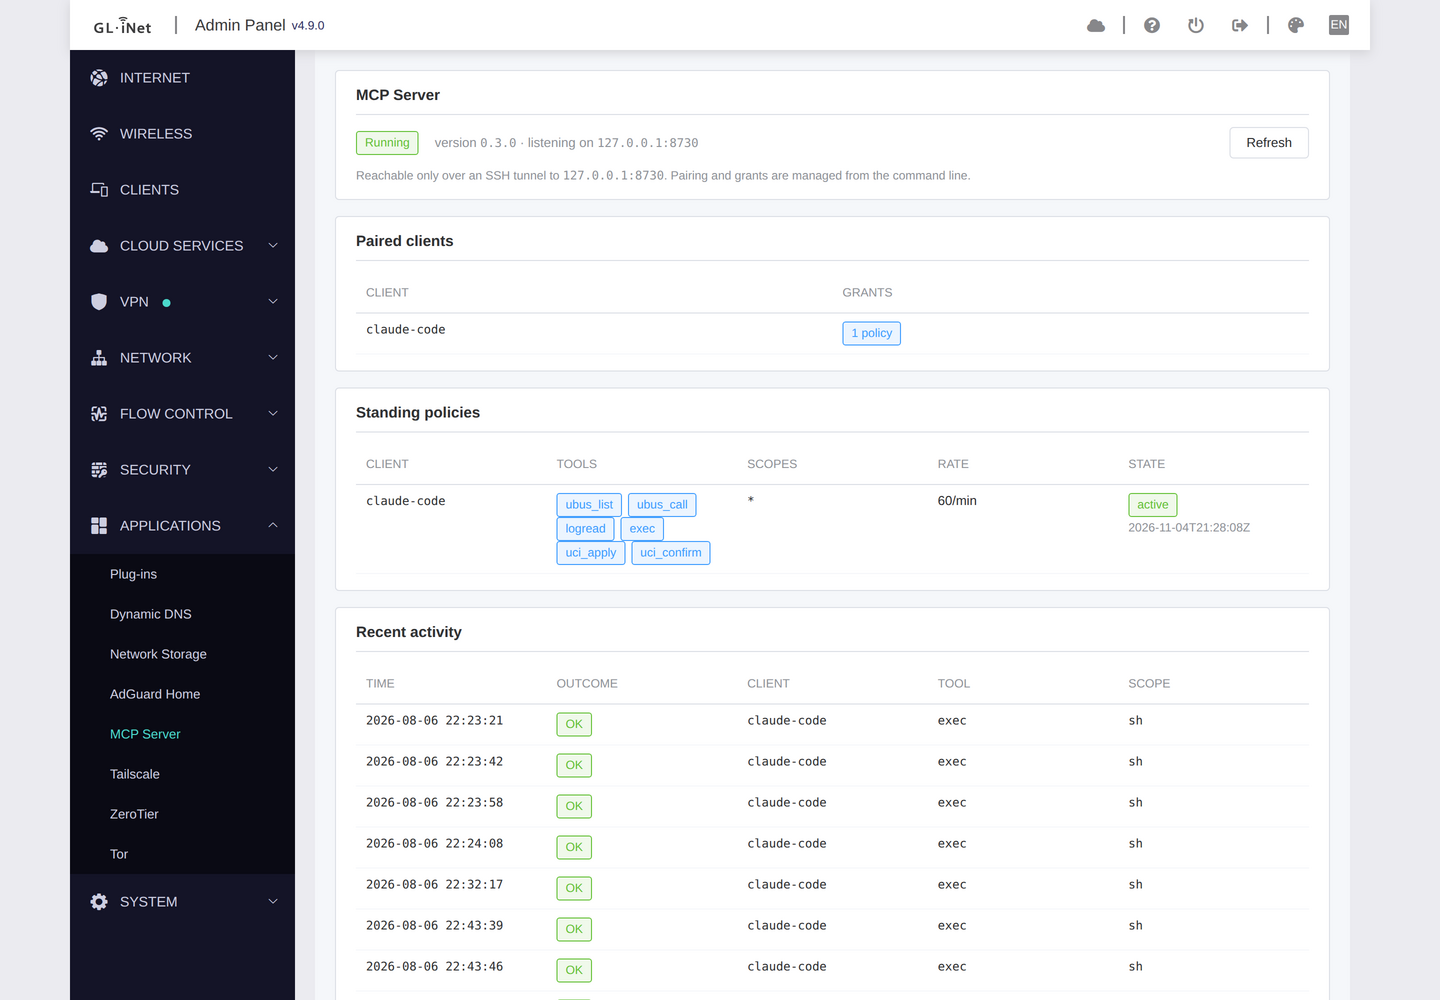
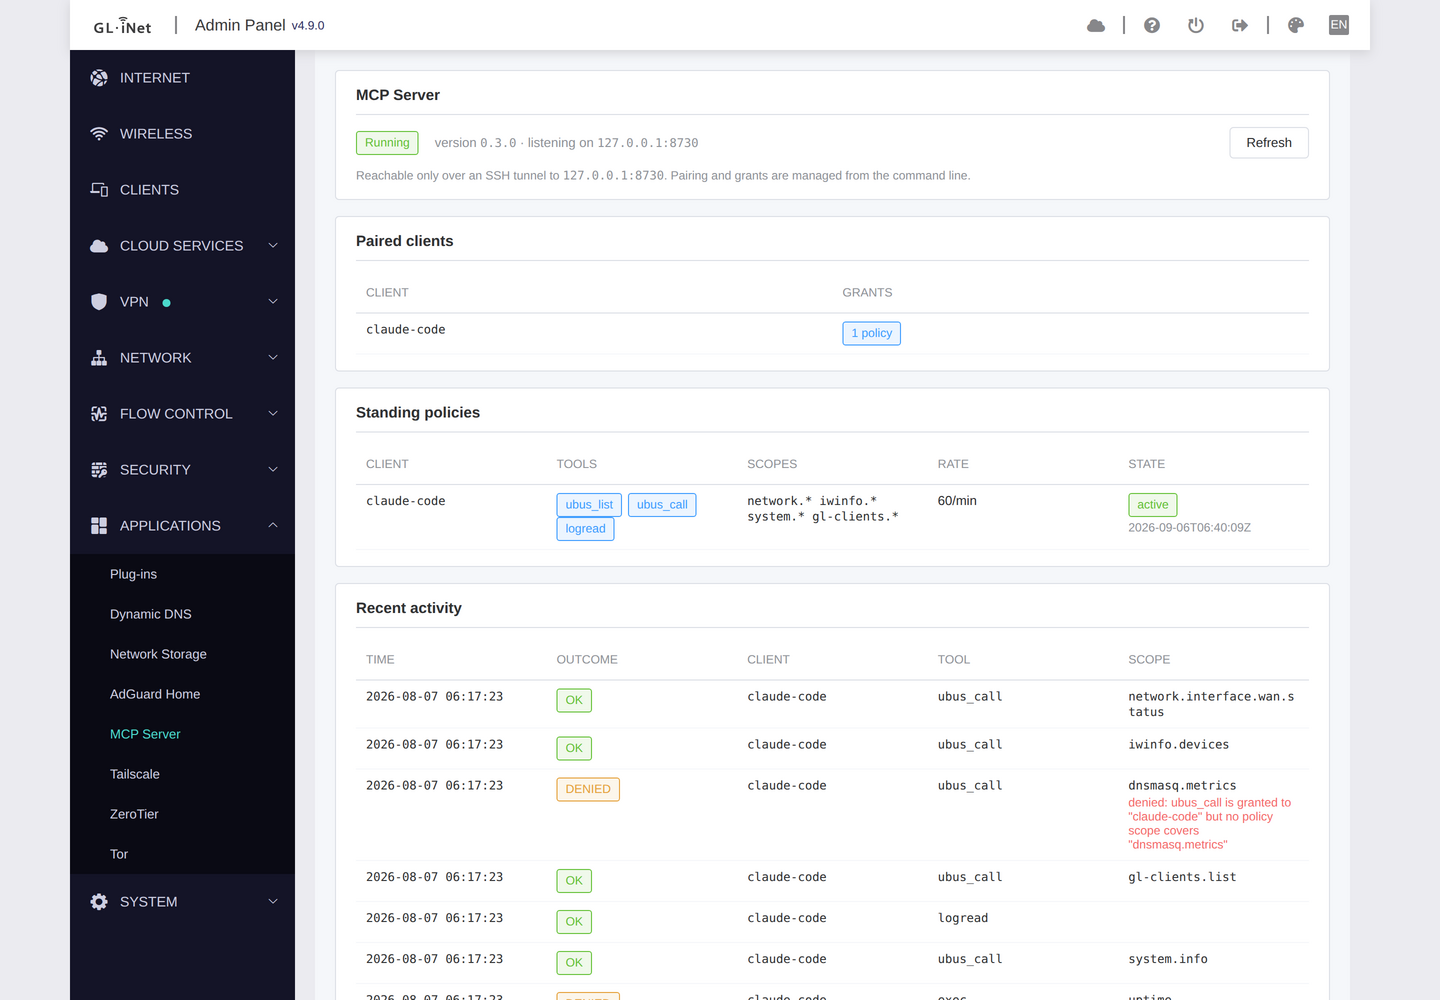
docs: retake the screenshot with a narrow grant
The first one showed scope '*', which contradicts the README's own advice to
start narrow. This shows the recommended starting grant and, in the audit tail,
a real refusal with the actionable message that makes widening cheap.

diff --git a/README.md b/README.md
@@ -18,11 +18,16 @@ that goes stale with each firmware update. On a GL.iNet box that means the vendo
 `gl-*` objects come through without a line of code per feature.
 
 ![The MCP Server page in GL.iNet's admin panel: daemon status, paired clients, standing
-policies and the recent audit tail](docs/router-ui.png)
+policies and the recent audit tail, including a refused call](docs/router-ui.png)
 
 On GL.iNet firmware it adds a read-only page to the router's own admin panel, under
 **Applications → MCP Server** — what is running, who is paired, what they may do, and what
 they have been doing. Granting stays on the command line.
+
+The refusal in that audit tail is the security model working, not a fault: `ubus_call` was
+granted on `network.*`, `iwinfo.*`, `system.*` and `gl-clients.*`, so `dnsmasq.metrics` was
+denied — and the denial names the uncovered scope and prints the `allow` line that would
+cover it. Starting narrow costs little when widening is one command away.
 
 ---
 
